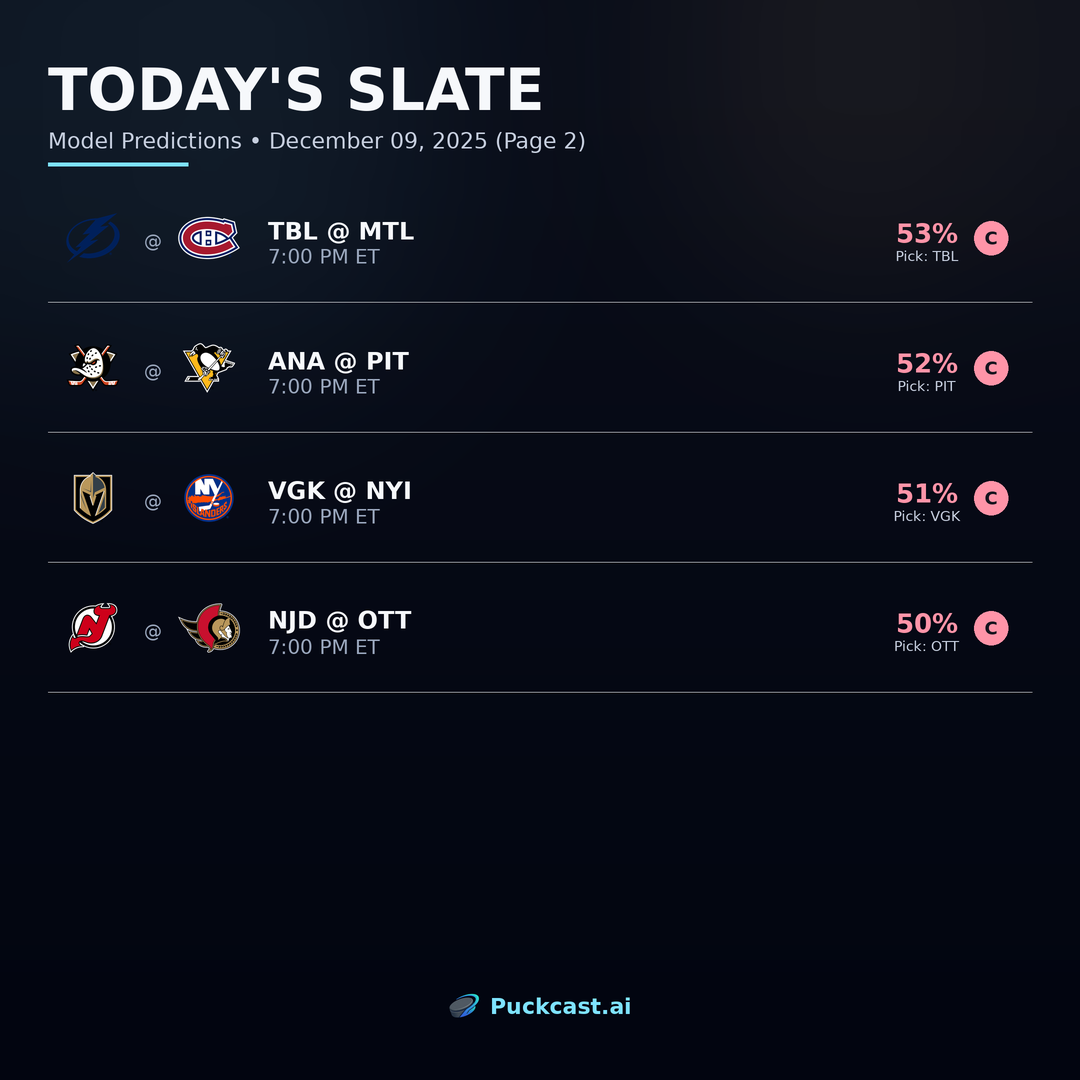
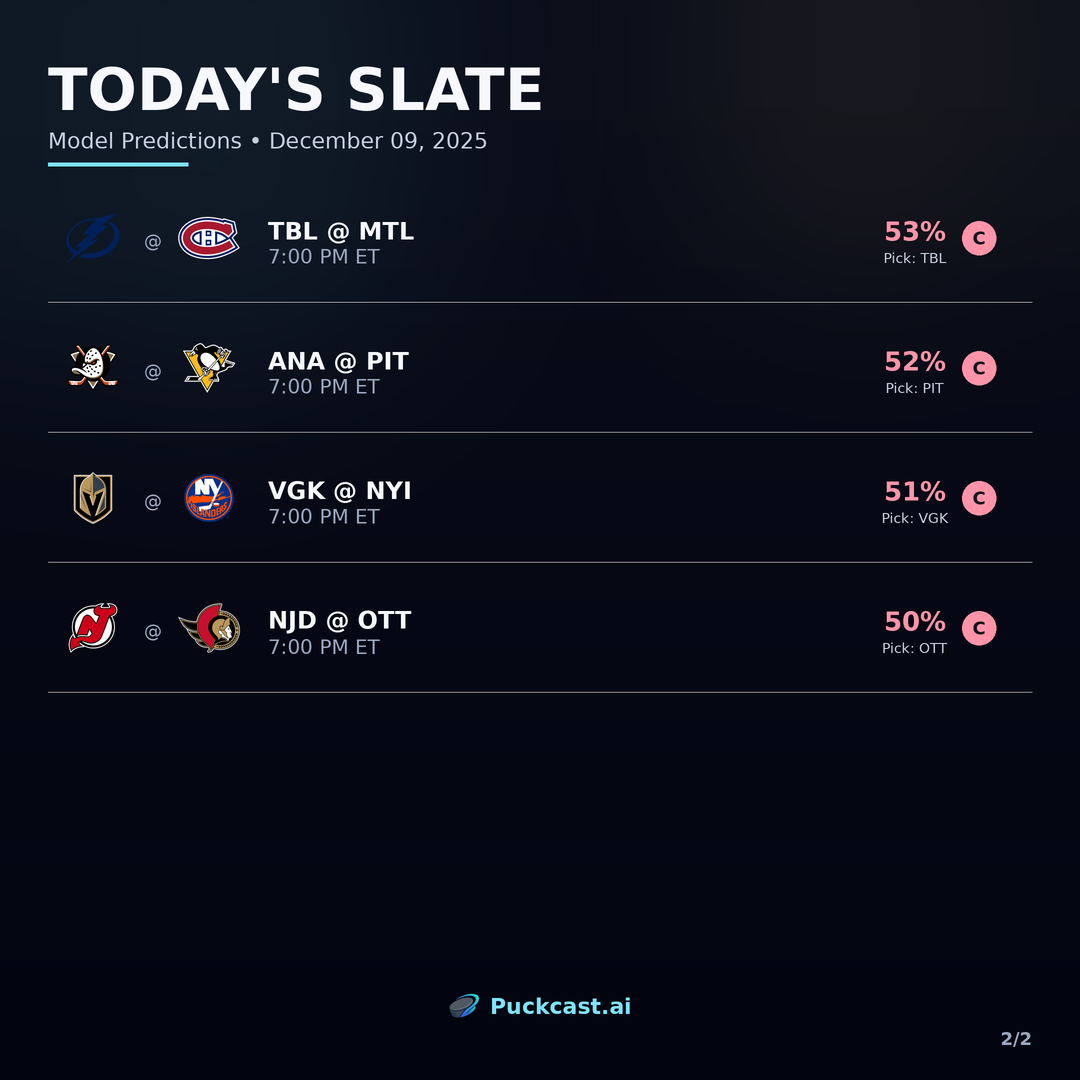
fix: final polish for Today's Slate
Pick info improvements:
- Vertical spacing S(10) -> S(14) for breathing room
- Pulled right column inward S(24) -> S(36) for connection

Slide counter for multi-page slates:
- Shows "1/2", "2/2" etc in bottom right
- Only appears when total_pages > 1
- Helps users understand carousel position

diff --git a/graphics/templates/todays_slate.py b/graphics/templates/todays_slate.py
@@ -116,7 +116,7 @@ def draw_game_row(
 
     # Grade badge position (anchor point)
     badge_size = S(34)
-    badge_x = img.width - margin - badge_size - S(24)  # Pulled inward ~50px
+    badge_x = img.width - margin - badge_size - S(36)  # Pulled inward more for connection
     badge_y = row_center_y - badge_size // 2
 
     # Probability text - balanced size
@@ -136,8 +136,8 @@ def draw_game_row(
     # Position pick section to left of badge with spacing
     pick_section_x = badge_x - prob_w - S(16)  # Extra spacing between prob and badge
 
-    # Total height of pick section with proper spacing
-    spacing = S(10)  # Increased vertical spacing
+    # Total height of pick section with better breathing room
+    spacing = S(14)  # Increased vertical spacing for less compression
     total_pick_h = prob_h + spacing + pick_h
     pick_start_y = row_center_y - total_pick_h // 2
 
@@ -164,7 +164,7 @@ def draw_game_row(
     draw.line([(margin, sep_y), (img.width - margin, sep_y)], fill=(255, 255, 255, 45), width=1)
 
 
-def generate_slate_image(games: List[Dict], date_str: str, page: int = 1) -> Image.Image:
+def generate_slate_image(games: List[Dict], date_str: str, page: int = 1, total_pages: int = 1) -> Image.Image:
     """Generate the slate image at 2x resolution."""
     img = create_puckcast_background()
     draw = ImageDraw.Draw(img)
@@ -178,8 +178,6 @@ def generate_slate_image(games: List[Dict], date_str: str, page: int = 1) -> Ima
     # Subtitle - increased spacing below title for hierarchy
     subtitle_font = get_font(S(22), bold=False)
     subtitle = f"Model Predictions • {date_str}"
-    if page > 1:
-        subtitle += f" (Page {page})"
     draw.text((margin, S(128)), subtitle, fill=hex_to_rgb(PuckcastColors.TEXT_SECONDARY), font=subtitle_font)
 
     # Accent line
@@ -194,6 +192,16 @@ def generate_slate_image(games: List[Dict], date_str: str, page: int = 1) -> Ima
     for i, game in enumerate(games[:6]):
         y_pos = content_y + i * (row_height + row_gap)
         draw_game_row(img, draw, game, y_pos, margin, row_height)
+
+    # Slide counter for multi-page slates (bottom right)
+    if total_pages > 1:
+        counter_font = get_font(S(18), bold=True)
+        counter_text = f"{page}/{total_pages}"
+        counter_bbox = draw.textbbox((0, 0), counter_text, font=counter_font)
+        counter_w = counter_bbox[2] - counter_bbox[0]
+        counter_x = img.width - margin - counter_w
+        counter_y = img.height - S(52)
+        draw.text((counter_x, counter_y), counter_text, fill=hex_to_rgb(PuckcastColors.TEXT_TERTIARY), font=counter_font)
 
     draw_footer(img)
     return img
@@ -229,12 +237,13 @@ def generate_todays_slate() -> List[Path]:
 
     output_paths = []
     games_per_page = 6
+    total_pages = (len(games_sorted) + games_per_page - 1) // games_per_page
 
     for page_idx in range(0, len(games_sorted), games_per_page):
         page_games = games_sorted[page_idx:page_idx + games_per_page]
         page_num = page_idx // games_per_page + 1
 
-        img = generate_slate_image(page_games, date_str, page=page_num)
+        img = generate_slate_image(page_games, date_str, page=page_num, total_pages=total_pages)
 
         if len(games_sorted) > games_per_page:
             output_path = OUTPUT_DIR / f"todays_slate_{page_num}.png"
